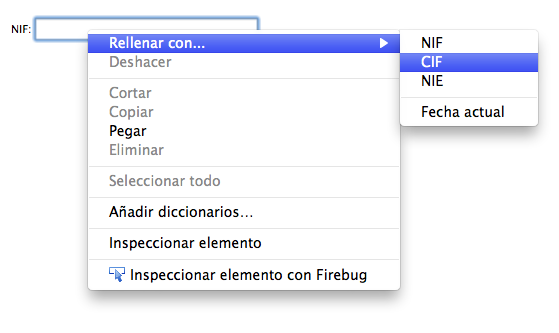
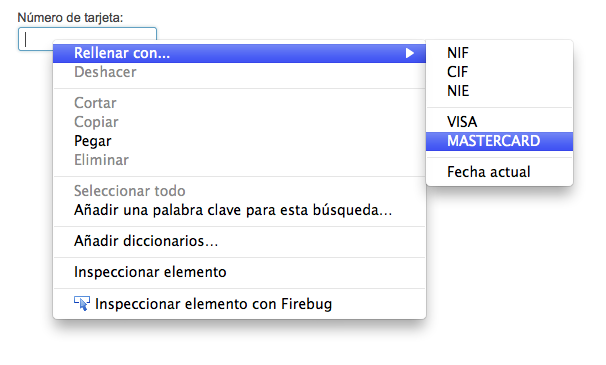
Añadida la opción de generar números de visa y mastercard (genera siempre el mismo…)

Changed region(s): [[0.0, 0.03, 0.9732, 0.9309]]

diff --git a/chrome/content/filwiz.js b/chrome/content/filwiz.js
@@ -8,7 +8,7 @@ var filwiz = {
 	/** Se ejecuta al inicio para añadir un evento en el popup */
 	init: function () {
 		document.getElementById("contentAreaContextMenu").addEventListener("popupshowing", filwiz.onPopupShowing, false);
-  	},
+	},
 
 
 	/** Muestra el menu solo cuando se pulsa sobre un campo de texto */
@@ -32,22 +32,22 @@ var filwiz = {
 		
 		var numero = this.generarNumeros(7);
 		var pares = 0;
-        var impares = 0;
-        var temp;
+		var impares = 0;
+		var temp;
 
 		for (var i=1; i<7; i=i+2) {
-			pares += parseInt(numero.substr(i, 1));
+			pares += parseInt(numero.substr(i, 1), 10);
 		}
 		
-		for (var i=0; i<7; i=i+2) {
-			temp = (2 * parseInt(numero.substr(i,1))).toString() + "0";
-			impares += parseInt(temp.substr(0,1)) + parseInt(temp.substr(1,1));
+		for (var j=0; j<7; j=j+2) {
+			temp = (2 * parseInt(numero.substr(j, 1), 10)).toString() + "0";
+			impares += parseInt(temp.substr(0,1), 10) + parseInt(temp.substr(1,1), 10);
 		}
 
-        var suma = (pares + impares).toString();
-        var unumero = 10 - parseInt(suma.substr(suma.length - 1, 1));
+		var suma = (pares + impares).toString();
+		var unumero = 10 - parseInt(suma.substr(suma.length - 1, 1), 10);
 
-        if(unumero == 10) unumero = "0";
+		if(unumero == 10) unumero = "0";
 
 		this.setValue("B" + numero + unumero);
 	},
@@ -69,12 +69,24 @@ var filwiz = {
 	},
 
 
+	/** Genera un número de tarjeta VISA válido */
+	generarVisa: function() {
+		this.setValue("4111111111111111");
+	},
+
+
+	/** Genera un número de tarjeta MasterCard válido */
+	generarMastercard: function() {
+		this.setValue("5555555555554444");
+	},
+
+
 	/** Genera un numero con la longitud indicada */
 	generarNumeros: function(cantidad) {
 		var digitos = [];
 		
 		for (var i=0; i<cantidad; i++) {
-			digitos[i] = parseInt(Math.random() * 10);
+			digitos[i] = parseInt(Math.random() * 10, 10);
 		}
 		
 		return digitos.join("");
@@ -82,10 +94,10 @@ var filwiz = {
 
 
 	/** Retorna la letra asociada a la posición indicada */
-    obtenerLetraNif: function(posicion) {
-        var letras = 'TRWAGMYFPDXBNJZSQVHLCKE';
-        return letras.substring(posicion, posicion + 1);
-    },
+	obtenerLetraNif: function(posicion) {
+		var letras = 'TRWAGMYFPDXBNJZSQVHLCKE';
+		return letras.substring(posicion, posicion + 1);
+	},
 
 
 	/** Introduce el valor indicado en el campo seleccionado */
@@ -94,6 +106,6 @@ var filwiz = {
 			gContextMenu.target.value = valor;
 		}
 	}
-}
+};
 
 window.addEventListener("load", filwiz.init, false);

diff --git a/README.md b/README.md
@@ -1,7 +1,7 @@
 # Filwiz
 Extensión para Firefox que permite generar valores útiles en el desarrollo de aplicaciones web*.
 
-Por ahora permite rellenar cualquier campo de texto con NIFs, CIFs y NIEs válidos.
+Por ahora permite rellenar cualquier campo de texto con NIFs, CIFs, NIEs y tarjetas de crédito válidas.
 
 
 ![Filwiz-screenshot](https://github.com/jrodalo/filwiz/raw/master/filwiz-screenshot.png)
